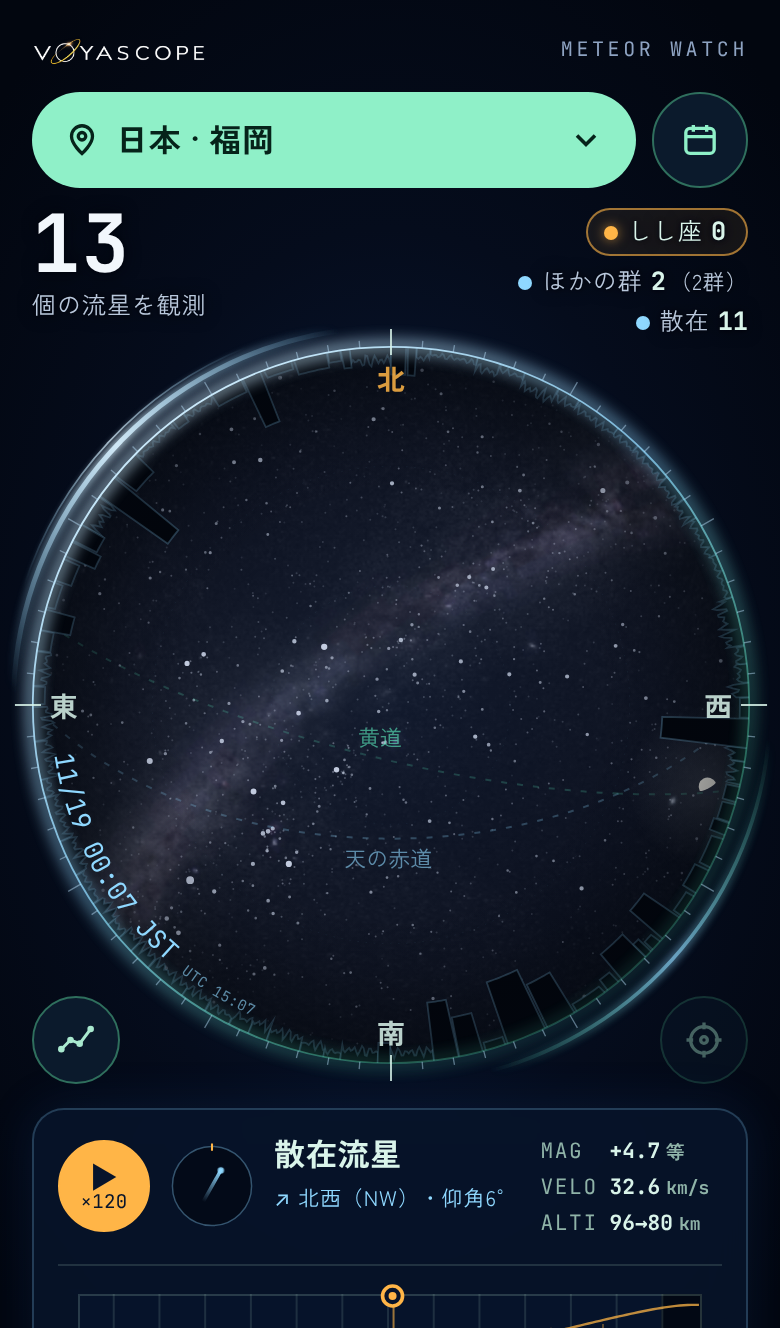
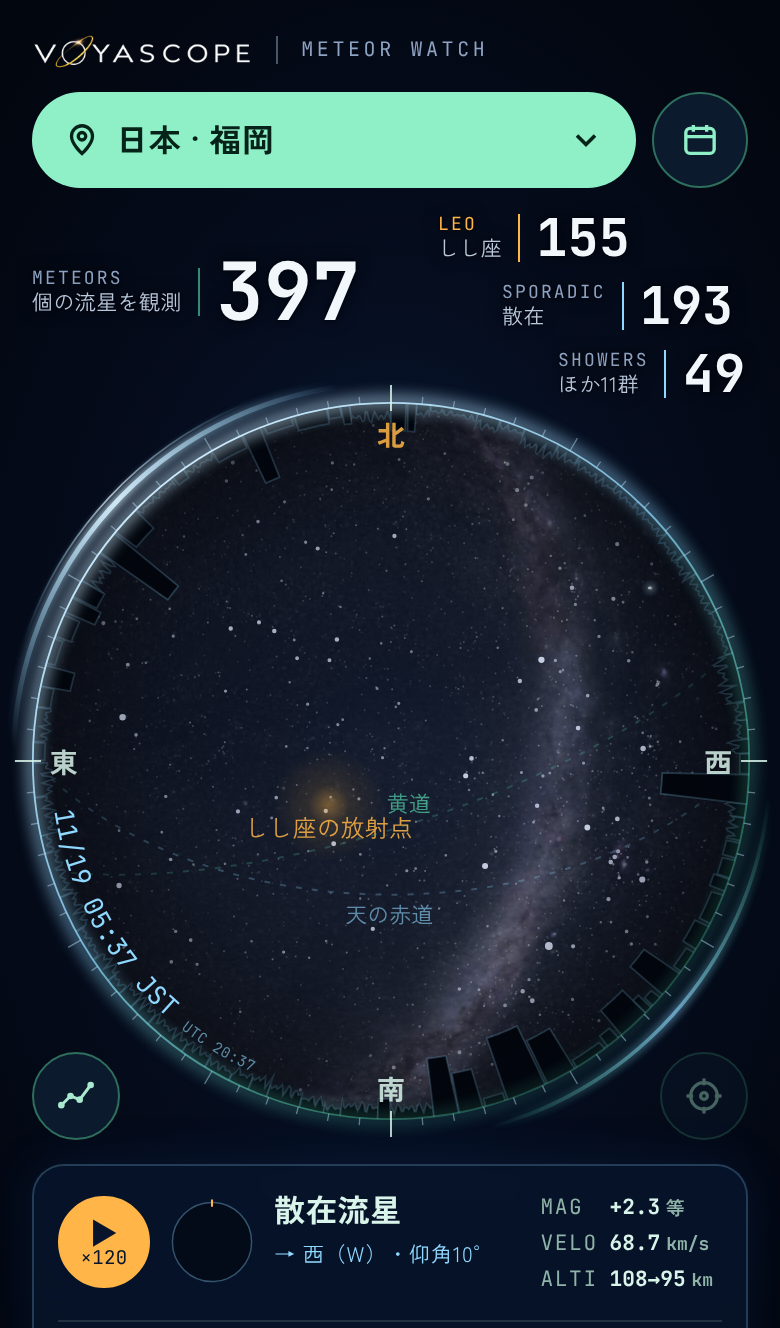
流星を眺める（見上げる）：ロゴを大きく・右に「| METEOR WATCH」・統計を計器の読みの形で輪の上側に散らす
- ロゴ：スマホ 19px・PC 22px の高さ。右に縦線と METEOR WATCH
- 統計：左に英字と日本語の2行・縦線・大きな数字（MMX の計器の形）。総数は左、しし座・散在・ほかの群は輪に沿って右下へ（数字 26px、総数 40px）
- 位置は輪の中心からの座標で決め、光の輪と重ならない。桁が増えて画面の端を越えるときだけ字を縮める

Claude-Session: https://claude.ai/code/session_01XQ4UBwH93kGsVUdewGHxjL

diff --git a/web/meteors/index.html b/web/meteors/index.html
@@ -257,12 +257,12 @@
   .brandbar { height: 22px; display: flex; align-items: center; gap: 12px; }
   /* ロゴは VOYASCOPE 本体と同じ画像（2026-11-28 オーナー）。押せる高さは 44px（行は 22px のまま） */
   .logo { display: flex; align-items: center; height: 44px; margin: -11px 0; }
-  .logo img { display: block; height: 15px; width: auto; }
+  .logo img { display: block; height: 19px; width: auto; }
   /* 「出典と注記」：字は小さいまま、押せる範囲を 44px に広げる */
   .credit button#srcBtn { position: relative; }
   .credit button#srcBtn::after { content: ""; position: absolute; left: 50%; top: 50%; width: max(100%, 64px); height: 44px; transform: translate(-50%, -50%); } /* 押せる高さ 44px（字の行は 22px のまま） */
   .logo:focus-visible { outline: 2px solid var(--amber); outline-offset: 2px; }
-  .mw { margin-left: auto; font-size: 10px; letter-spacing: 0.18em; color: #8ea3c2; }
+  .mw { font-size: 10px; letter-spacing: 0.18em; color: #8ea3c2; padding-left: 12px; border-left: 1px solid rgba(142, 163, 194, 0.5); line-height: 14px; } /* ロゴの右に「| METEOR WATCH」 */
   .ctl { display: flex; align-items: center; gap: 8px; }
   .place { position: relative; flex: 1 1 auto; min-width: 0; height: 48px; border-radius: 24px; background: #8ff0c8; color: #06231a;
     display: flex; align-items: center; gap: 8px; padding: 0 16px; font-size: 16px; font-weight: 700; cursor: pointer; }
@@ -288,13 +288,23 @@
   .corners { position: absolute; z-index: 3; pointer-events: none; }
   .corners .icon-btn { position: absolute; bottom: 0; width: 44px; height: 44px; pointer-events: auto; color: #a9e9cf; }
   #constBtn { left: 0; } #viewReset { right: 0; }
-  .stats { position: absolute; left: 0; top: 0; z-index: 2; pointer-events: none; text-shadow: 0 0 8px #02060f, 0 0 2px #02060f; }
-  .stats .count { position: static; }
+  .stats { position: absolute; left: 0; top: 0; z-index: 2; pointer-events: none; text-shadow: 0 0 8px #02060f, 0 0 2px #02060f;
+    display: flex; flex-direction: column; gap: 8px; --k: 1; }
+  /* 計器の読み：左に英字（等幅・字間広め）と日本語の2行、縦の線、大きな数字（MMX の「いまどこ」の計器と同じ形） */
+  .ro { --f: 1; display: flex; align-items: center; gap: calc(8px * var(--k) * var(--f)); white-space: nowrap; pointer-events: auto; }
+  .ro-l { display: flex; flex-direction: column; align-items: flex-start; line-height: 1.2; padding-right: calc(8px * var(--k) * var(--f)); border-right: 1.5px solid rgba(217, 244, 234, 0.55); }
+  .ro-en { font-family: var(--font-mono); font-size: calc(9px * var(--k) * var(--f)); letter-spacing: 0.12em; color: #8ea3c2; }
+  .ro-ja { font-size: calc(10.5px * var(--k) * var(--f)); letter-spacing: 0.02em; color: #b9c8dc; }
+  .ro-n { font-family: var(--font-mono); font-weight: 700; font-size: calc(26px * var(--k) * var(--f)); line-height: 1; color: #f2f7fc; letter-spacing: 0; font-variant-numeric: tabular-nums; }
+  .ro-total .ro-n { font-size: calc(40px * var(--k) * var(--f)); }
+  .ro-total .ro-l { border-right-color: var(--mint-dim); }
+  .ro-leo .ro-l { border-right-color: var(--amber); } .ro-leo .ro-en { color: var(--amber); }
+  .ro-spo .ro-l, .ro-oth .ro-l { border-right-color: var(--sky); }
   @media (min-width: 900px) and (min-aspect-ratio: 1/1) {
     .top { flex-direction: row; align-items: center; gap: 24px; }
     .brandbar { flex: 1 1 auto; }
     .ctl { flex: none; width: 460px; }
-    .logo img { height: 18px; }
+    .logo img { height: 22px; }
   }
   @media (max-width: 899px), (max-aspect-ratio: 1/1) {
     /* スマホ：縦に流す（ドームの大きさは画面の幅で決める。アドレスバーの出入りで変わらない）。低い画面ではページを送る */
@@ -305,16 +315,8 @@
     .dome { display: block; flex: none; margin-top: 8px; overflow-x: clip; overflow-y: visible; margin-left: -16px; margin-right: -16px; padding: 0 16px; }
     .dome-box { position: absolute; }
     .corners { left: 16px !important; right: 16px !important; }
-    .stats { left: 16px; right: 16px; display: flex; justify-content: space-between; align-items: flex-start; }
-    .count { line-height: 1; }
-    .count .cnt-row { gap: 0; }
-    .dome .count svg.cnt-ic { display: none; }
-    .count b { font-size: 40px; color: #f2f7fc; }
-    .count .unit { margin-top: 4px; font-size: 12px; letter-spacing: 0.04em; color: #b9c8dc; }
-    .count-break { margin-top: 2px; text-align: right; font-size: 12px; color: #b9c8dc; line-height: 1.5; }
-    .count-break span { display: block; }
-    .count-break span.leo { display: inline-block; margin: 0 0 3px; }
-    .count .count-break b, .count-break b { font-family: var(--font-mono); font-weight: 700; color: var(--text); margin-left: 4px; }
+    .stats { inset: 0; display: block; pointer-events: none; }
+    .stats .ro { position: absolute; }
     .panel-wrap { margin-top: 12px; }
     .time { margin-top: 4px; }
     .rim-log { display: none; } /* METEOR WATCH は上の行に出したので、輪のまわりからは外す */
@@ -327,8 +329,8 @@
   <header class="top">
     <div class="brandbar">
       <a class="logo" href="../" aria-label="VOYASCOPE のトップへ"><img src="../assets/brand/logo-600.webp" alt="VOYASCOPE" width="600" height="104"></a>
-      <span class="brand-sub">流星を眺める｜見上げる ・ 試験版</span>
       <span class="mw mono">METEOR WATCH</span>
+      <span class="brand-sub">流星を眺める｜見上げる ・ 試験版</span>
     </div>
     <div class="ctl">
       <label class="place">
@@ -345,9 +347,12 @@
   </header>
 
   <div class="dome" id="dome">
-    <div class="stats">
-      <div class="count" title="日本のまわりで GMN のカメラが記録した流星（日没から いまの時刻まで）"><span class="cnt-row"><svg class="cnt-ic" viewBox="0 0 24 24" aria-hidden="true"><path d="M3 21 L15 9" /><path d="M8 22 L20 10" opacity=".55"/><circle cx="15.5" cy="8.5" r="1.8"/><circle cx="20.5" cy="9.5" r="1.4" opacity=".55"/></svg><b id="count">0</b></span><span class="unit">個の流星を観測</span></div>
-      <div class="count-break" id="countBreak"></div>
+    <!-- 統計：計器の読み（左に英字と日本語の2行・縦線・大きな数字）を、輪の上側に沿って散らして置く（2026-11-28 オーナー：MMX の計器の形）。位置は layout() で -->
+    <div class="stats" id="stats">
+      <div class="ro ro-total" id="roTotal" title="日本のまわりで GMN のカメラが記録した流星（日没から いまの時刻まで）"><span class="ro-l"><span class="ro-en">METEORS</span><span class="ro-ja">個の流星を観測</span></span><b class="ro-n" id="count">0</b></div>
+      <div class="ro ro-leo" id="roLeo"><span class="ro-l"><span class="ro-en">LEO</span><span class="ro-ja">しし座</span></span><b class="ro-n" id="cLeo">0</b></div>
+      <div class="ro ro-spo" id="roSpo"><span class="ro-l"><span class="ro-en">SPORADIC</span><span class="ro-ja">散在</span></span><b class="ro-n" id="cSpo">0</b></div>
+      <div class="ro ro-oth" id="roOth"><span class="ro-l"><span class="ro-en">SHOWERS</span><span class="ro-ja" id="cOthJa">ほかの群</span></span><b class="ro-n" id="cOth">0</b></div>
     </div>
     <div class="dome-box" id="domeBox">
       <canvas id="sky" aria-label="見上げた空の魚眼の図。はじめは中心が真上、円のふちが地平線、北が上、東が左。スワイプで見る方向を変えられる"></canvas>
@@ -707,6 +712,32 @@ function prepare() {
 // ---------- 魚眼 ----------
 const cornersEl = document.getElementById('corners'), domeEl = document.getElementById('dome'), boxEl = document.getElementById('domeBox'), sky = document.getElementById('sky'), ctx = sky.getContext('2d');
 let S = 300, DPR = Math.min(devicePixelRatio || 1, 3), /* スマホの多くは 3倍。2倍で止めるとにじむ（2026-11-22 オーナー「ファジー」） */ cx = 0, cy = 0, R = 0;
+// 統計の読みを、輪の上側に沿って散らして置く（スマホ）。数字は 390 幅の見本の大きさ（D＝380）を基準に、画面の幅で伸び縮み。
+// 位置は輪の中心からの x（右が正）と、読みの下端の高さ y（上が正）。輪の外径＋余白（196）より外に、左下・右下の角が来るように
+const RO_POS = { roTotal: { right: -10, y: 214 }, roLeo: { x: 24, y: 248 }, roSpo: { x: 56, y: 214 }, roOth: { x: 84, y: 180 } };
+function placeStats(D, statsH) {
+  const st = document.getElementById('stats'), k = D / 380, W = domeEl.clientWidth, cxp = W / 2, cyp = statsH + D / 2;
+  st.style.setProperty('--k', k.toFixed(3));
+  for (const [id, q] of Object.entries(RO_POS)) {
+    const el = document.getElementById(id), h = el.offsetHeight;
+    el.style.top = (cyp - q.y * k - h) + 'px';
+    if (q.right != null) { el.style.left = '16px'; el.style.right = ''; statsBoxTotal = cxp + q.right * k - 16; }
+    else { el.style.left = (cxp + q.x * k) + 'px'; el.style.right = ''; }
+  }
+  statsBox = { W, totalMax: statsBoxTotal }; fitStats();
+}
+let statsBoxTotal = 0;
+// 桁が増えて（ヨーロッパの夜の終わりは 1,989・散在 1,063）画面の端や輪の手前の線を越えるときだけ、その読みの字を縮める
+let statsBox = null, statsSig = '';
+function fitStats() {
+  if (!statsBox) return;
+  for (const id of Object.keys(RO_POS)) {
+    const el = document.getElementById(id); el.style.setProperty('--f', 1);
+    const lim = id === 'roTotal' ? statsBox.totalMax : statsBox.W - 8 - parseFloat(el.style.left), w = el.scrollWidth;
+    if (w > lim) el.style.setProperty('--f', (lim / w * 0.98).toFixed(3));
+  }
+}
+function clearStats() { statsBox = null; for (const id of Object.keys(RO_POS)) { const e = document.getElementById(id); Object.assign(e.style, { top: '', left: '', right: '' }); e.style.setProperty('--f', 1); } }
 // 光の輪（外周のぼかし）の外径。箱の大きさ S に対する直径の割合（輪は半径 0.44・ぼかしは約 0.467）
 const OUTER = 0.934;
 function layout() {
@@ -716,13 +747,14 @@ function layout() {
     // タブレットや横向きのように高さが足りないときだけ抑える
     const D = Math.floor(Math.min(innerWidth - 10, 560, Math.max(260, innerHeight - 200)));
     S = Math.round(D / OUTER);
-    const inset = (S - D) / 2, statsH = 60; // 統計（総数・内訳）はドームの上の 60px（見本と同じ）
+    const inset = (S - D) / 2, statsH = Math.round(88 * D / 380); // 統計を輪の上側に沿って置くぶんの高さ
     domeEl.style.height = (statsH + D) + 'px';
     boxEl.style.left = `calc(50% - ${S / 2}px)`; boxEl.style.top = (statsH - inset) + 'px';
     // 四隅のボタン：左右は外の余白（16px）にそろえ、下はドームの外径の下端に
     cornersEl.style.top = statsH + 'px'; cornersEl.style.height = D + 'px';
+    placeStats(D, statsH);
   } else {
-    domeEl.style.height = ''; boxEl.style.left = ''; boxEl.style.top = '';
+    domeEl.style.height = ''; boxEl.style.left = ''; boxEl.style.top = ''; clearStats();
     S = Math.max(160, Math.floor(Math.min(r.width, r.height)));
   }
   boxEl.style.width = S + 'px'; boxEl.style.height = S + 'px';
@@ -1135,9 +1167,12 @@ function lastVisibleBefore(t) { const i = idxAt(t) - 1; return i >= 0 ? meteors[
 function updateCount() {
   let n = 0, leo = 0, sp = 0; const groups = new Set();
   for (const m of meteors) { if (m._t > simT) break; if (m._t >= T0) { n++; if (m.iau_code === 'LEO') leo++; else if (!m.iau_code) sp++; else groups.add(m.iau_code); } }
-  document.getElementById('count').textContent = n;
   const other = n - leo - sp;
-  document.getElementById('countBreak').innerHTML = n ? `<span class="leo"><i class="o"></i>しし座<b>${leo}</b></span><span><i class="c"></i>ほかの群<b>${other}</b>${groups.size ? `<small>（${groups.size}群）</small>` : ''}</span><span><i class="c"></i>散在<b>${sp}</b></span>` : '';
+  document.getElementById('count').textContent = n;
+  document.getElementById('cLeo').textContent = leo; document.getElementById('cSpo').textContent = sp; document.getElementById('cOth').textContent = other;
+  document.getElementById('cOthJa').textContent = groups.size ? `ほか${groups.size}群` : 'ほかの群';
+  const sig = [n, leo, sp, other].map(v => String(v).length).join() + groups.size; // 桁が変わったときだけ収まりを見直す
+  if (sig !== statsSig) { statsSig = sig; fitStats(); }
 }
 // 流星群の名前：英名と番号は IAU 流星データセンターの一覧（https://www.ta3.sk/IAUC22DB/MDC2022/Roje/roje_lista.php 2026-11-21 確認）。
 // 日本語名：国立天文台「流星群の和名一覧（略符順）」（https://www.nao.ac.jp/new-info/meteor/table-code.html 2026-11-05 更新・2026-11-21 確認。C43）。
@@ -1308,7 +1343,7 @@ async function setCity(key) {
   skyline = buildSkyline(city.seed * 7919);
   document.getElementById('citySel').value = key;
   document.getElementById('placeLabel').textContent = `${REGIONS[rk].ja} · ${city.ja}`; // 「国・地域 · 街」（町の段は段階2で）
-  document.querySelector('.count').title = `${REGIONS[rk].area}で GMN のカメラが記録した流星（日没から いまの時刻まで）`;
+  document.getElementById('roTotal').title = `${REGIONS[rk].area}で GMN のカメラが記録した流星（日没から いまの時刻まで）`;
   // その街の 11/18 の日の入り（現地の正午から探す）と、次の日の出
   const noon = Date.UTC(2026, 10, 18, 12) - city.lon / 15 * 3600000;
   T0 = findCross(city, noon, noon + 12 * 3600000, false);

diff --git a/docs/changelog.md b/docs/changelog.md
@@ -16,6 +16,7 @@
   - スマホでは輪が画面の端に近いので、方角の字と日時（11/19 00:08 JST）を輪の内側へ。輪のまわりの「METEOR WATCH · OBSERVATION LOG」は上の行に出したので外した
   - ドームとカードのあいだを 12px に。390×664 で再生ボタンの下端 616px・群名 589px（最初の画面に入る）
   - 押せるところは 44px 以上（ロゴ・「出典と注記」は押せる範囲を広げた）。出典の帯の文中のリンクは文の一部なので小さいまま
+  - オーナーの手直し：ロゴを大きく（スマホ 15 → 19px・PC 18 → 22px の高さ）、ロゴの右に「| METEOR WATCH」。統計は MMX の計器の読みの形（左に英字と日本語の2行・縦の線・大きな数字）にして、輪の上側に沿って散らして置く：左に総数（METEORS／個の流星を観測、40px）、右に しし座（LEO・琥珀の線）→ 散在（SPORADIC）→ ほかの群（SHOWERS・ほか〇群）を輪に沿って右下へ（数字 12 → 26px）。位置は輪の中心からの座標で決め、どの読みも光の輪の外径より外（390幅で輪の外径190px に対し 199px 以上）。桁が増えて画面の端を越えるときだけ、その読みの字を縮める（ヨーロッパの夜の終わり 1,989・散在 1,063 でも 320幅で収まる）。散在を ほかの群 より上にしたのは、散在のほうが桁が多く（最大 1,063）、輪に沿った下の段ほど横の幅が狭いため。上の行が 60 → 88px になり、390×664 で再生ボタンの下端 644px・群名 617px
   - 画面：`docs/screenshots/meteors/ui-step1-390x844.png`・`ui-step1-390x664.png`
 
 ## 2026-11-24
